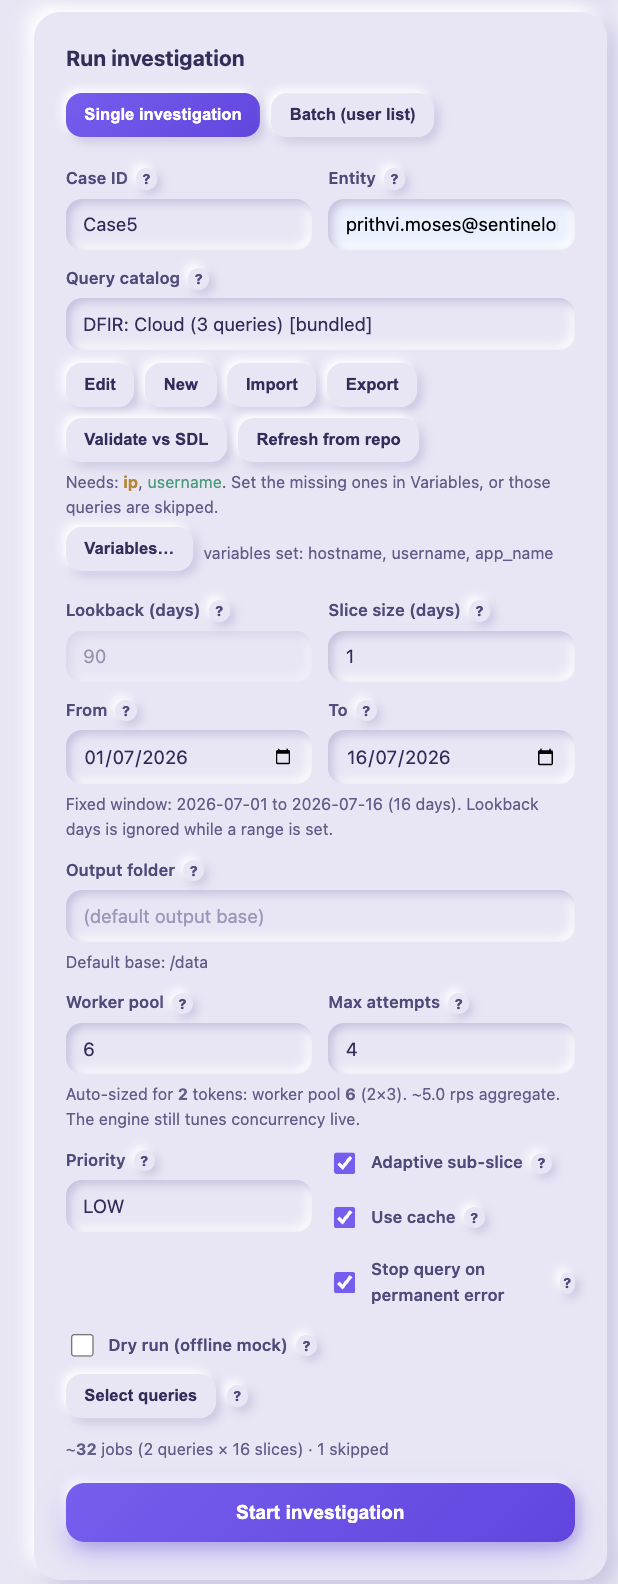
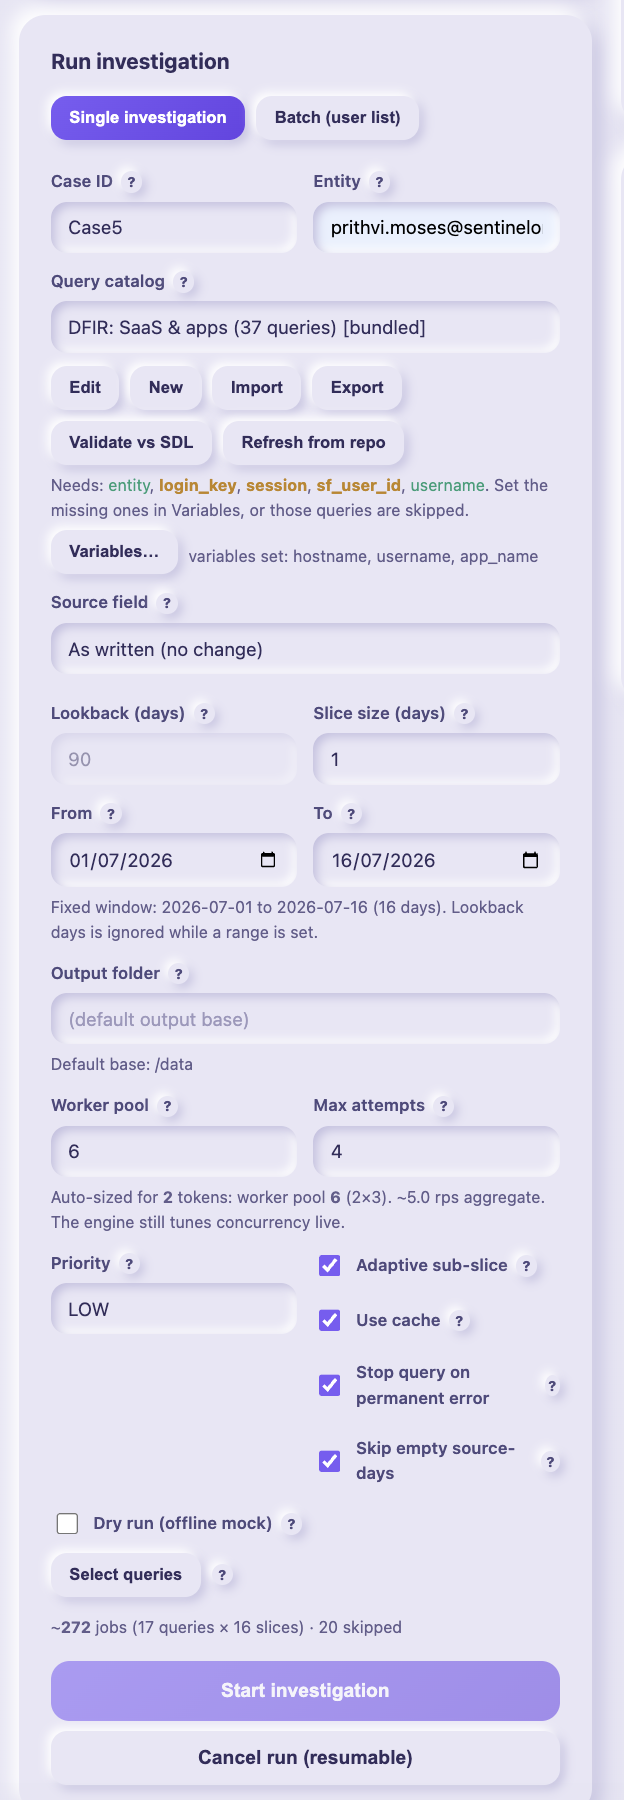
docs: update user guide with new screenshots - refreshed run form (Source field, Skip empty source-days), added Select-queries search/select-all, Source-field selector, inline fix-query editor, and NO DATA audit note

diff --git a/docs/user-guide.md b/docs/user-guide.md
@@ -106,11 +106,21 @@ Then set the window and options:
 - **Output folder** (blank uses the mounted `/data`), **Worker pool** and **Max attempts**. The pool
   auto-sizes to tokens x 3 as you add tokens and shows the resulting aggregate rate; type a value to
   override or clear it to auto-size again.
+- **Source field.** Which field the catalog's queries use to pin a data source. "As written" keeps each
+  query as-is; **Force serverHost** or **Force dataSource.name** rewrites every source-anchor predicate
+  to that field (some tenants populate one, some the other).
+
+  ![Source field selector](images/10-source-field.png)
+
 - **Priority**, **Adaptive sub-slice** (split a slow slice and retry the pieces), **Use cache** (reuse
-  immutable past-day results), **Stop query on permanent error** (the circuit breaker, see Tips), and
-  **Dry run (offline mock)** to try the flow with no tenant.
-- **Select queries** runs only a subset of the catalog. The cost preview beside it estimates the job
-  count (runnable queries x slices) before you commit.
+  immutable past-day results), **Stop query on permanent error** (the circuit breaker, see Tips),
+  **Skip empty source-days** (probe a source once per day and skip its queries if it has no data that
+  day), and **Dry run (offline mock)** to try the flow with no tenant.
+- **Select queries** runs only a subset of the catalog. Search by id or title and use **Select all** to
+  toggle the (filtered) list; the count updates live. The cost preview beside the button estimates the
+  job count (runnable queries x slices, with a skipped count) before you commit.
+
+  ![Select queries](images/09-select-queries.png)
 
 Click **Start investigation** (or **Start batch investigation**).
 
@@ -125,8 +135,10 @@ remaining. The tiles below it show **done**, **running** (queries executing in p
 **pending**, **cached**, **failed**, **throttled**, and **retried** counts as they change. The
 **Activity log** streams every event: the plan, each slice completing (row count, elapsed time, which
 token ran it, and the current concurrency limit `gov=`), cache hits, retries, sub-slicing, throttles,
-and any aborts. The full trace is also written to `activity.jsonl` in the run folder. You can **Cancel**
-a run at any time; it stops after in-flight slices finish and stays resumable.
+and any aborts. When a source has no data for a day, a highlighted **NO DATA** line is logged once and
+that source's queries for the day are skipped. The full trace is also written to `activity.jsonl` in
+the run folder. You can **Cancel** a run at any time; it stops after in-flight slices finish and stays
+resumable.
 
 ---
 
@@ -149,6 +161,13 @@ workbook, manifest, logs), and **Everything (.zip)** (the above plus raw per-sli
 incomplete or cancelled, a **Resume** button re-runs its outstanding slices. Each run also writes a
 per-case `.xlsx` workbook (a Summary sheet plus one tab per query showing its PowerQuery). All outputs
 land under `<output>/<case>/<run_id>/`; see the [output layout](../README.md#output-layout).
+
+![Fix a failed query inline](images/11-fix-query.png)
+
+**Fix a failed query in place.** Opening a failed query shows its editable template under **Edit / fix
+this query**. Adjust it, **Test vs SDL** over a short window to confirm SDL accepts it, **Save to
+catalog**, and **Save & re-run investigation** to start a fresh run for the same case using the fix.
+Because past days are cached, only the fixed query actually re-executes.
 
 ---
 